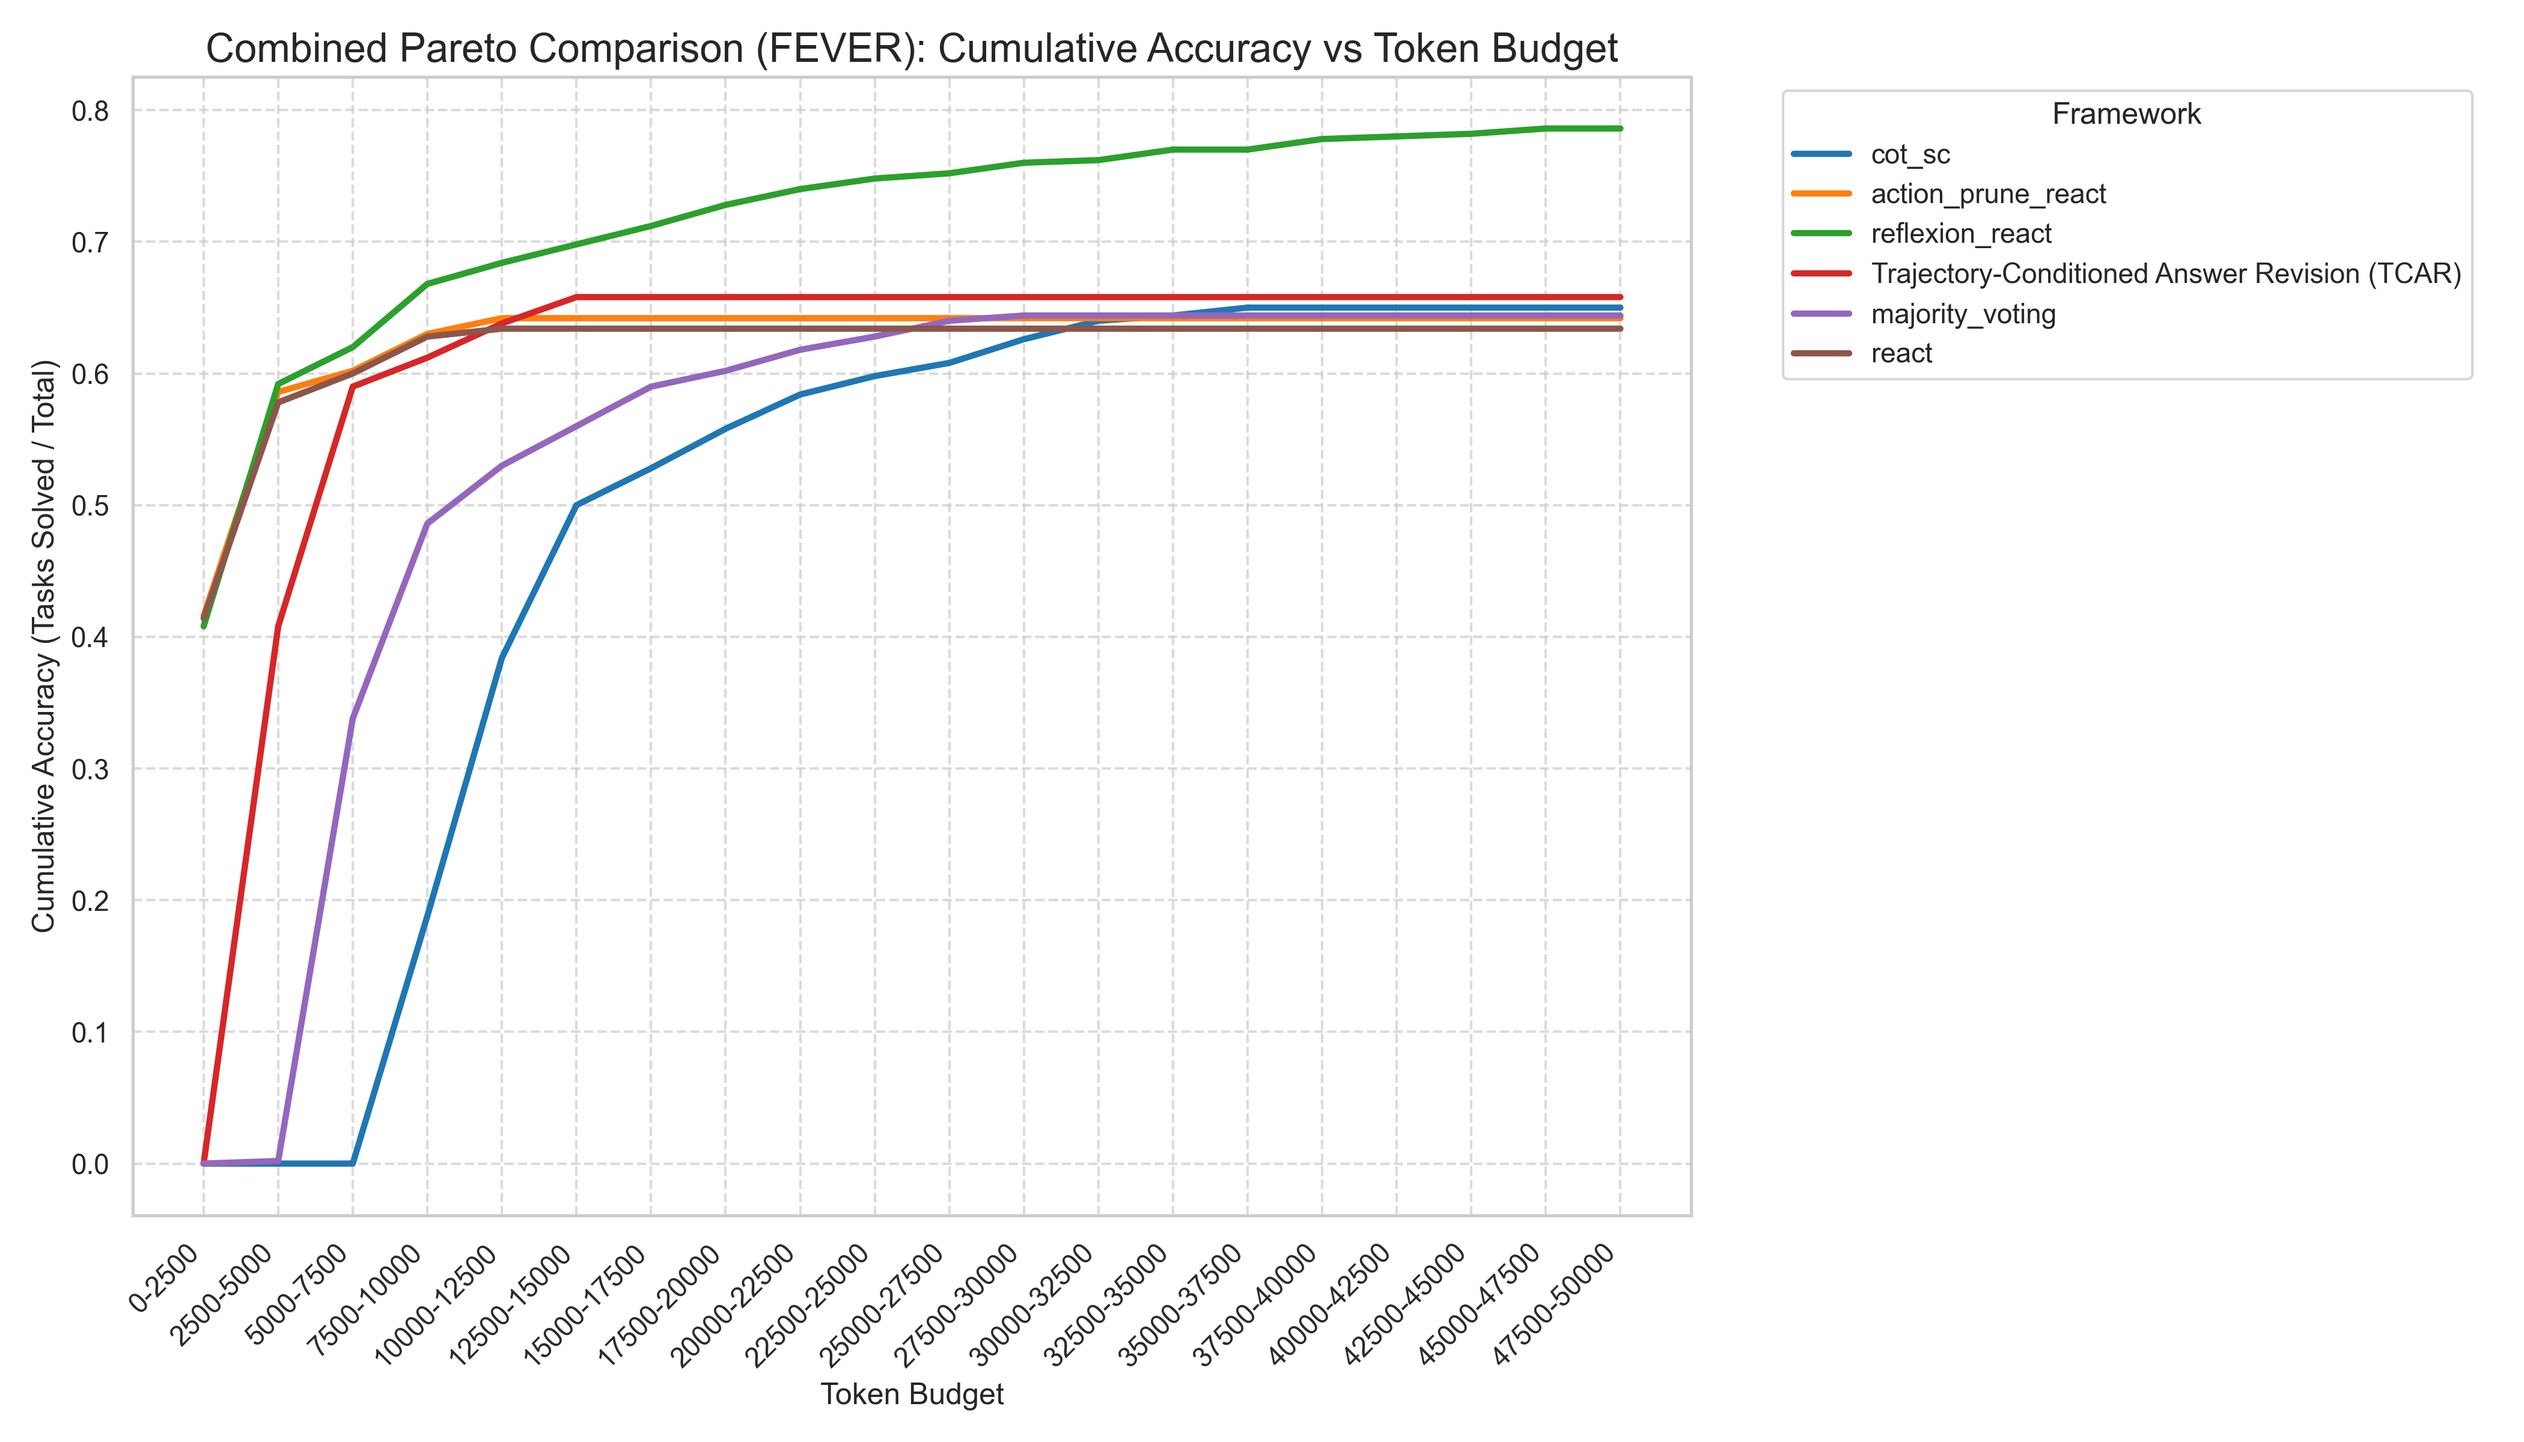
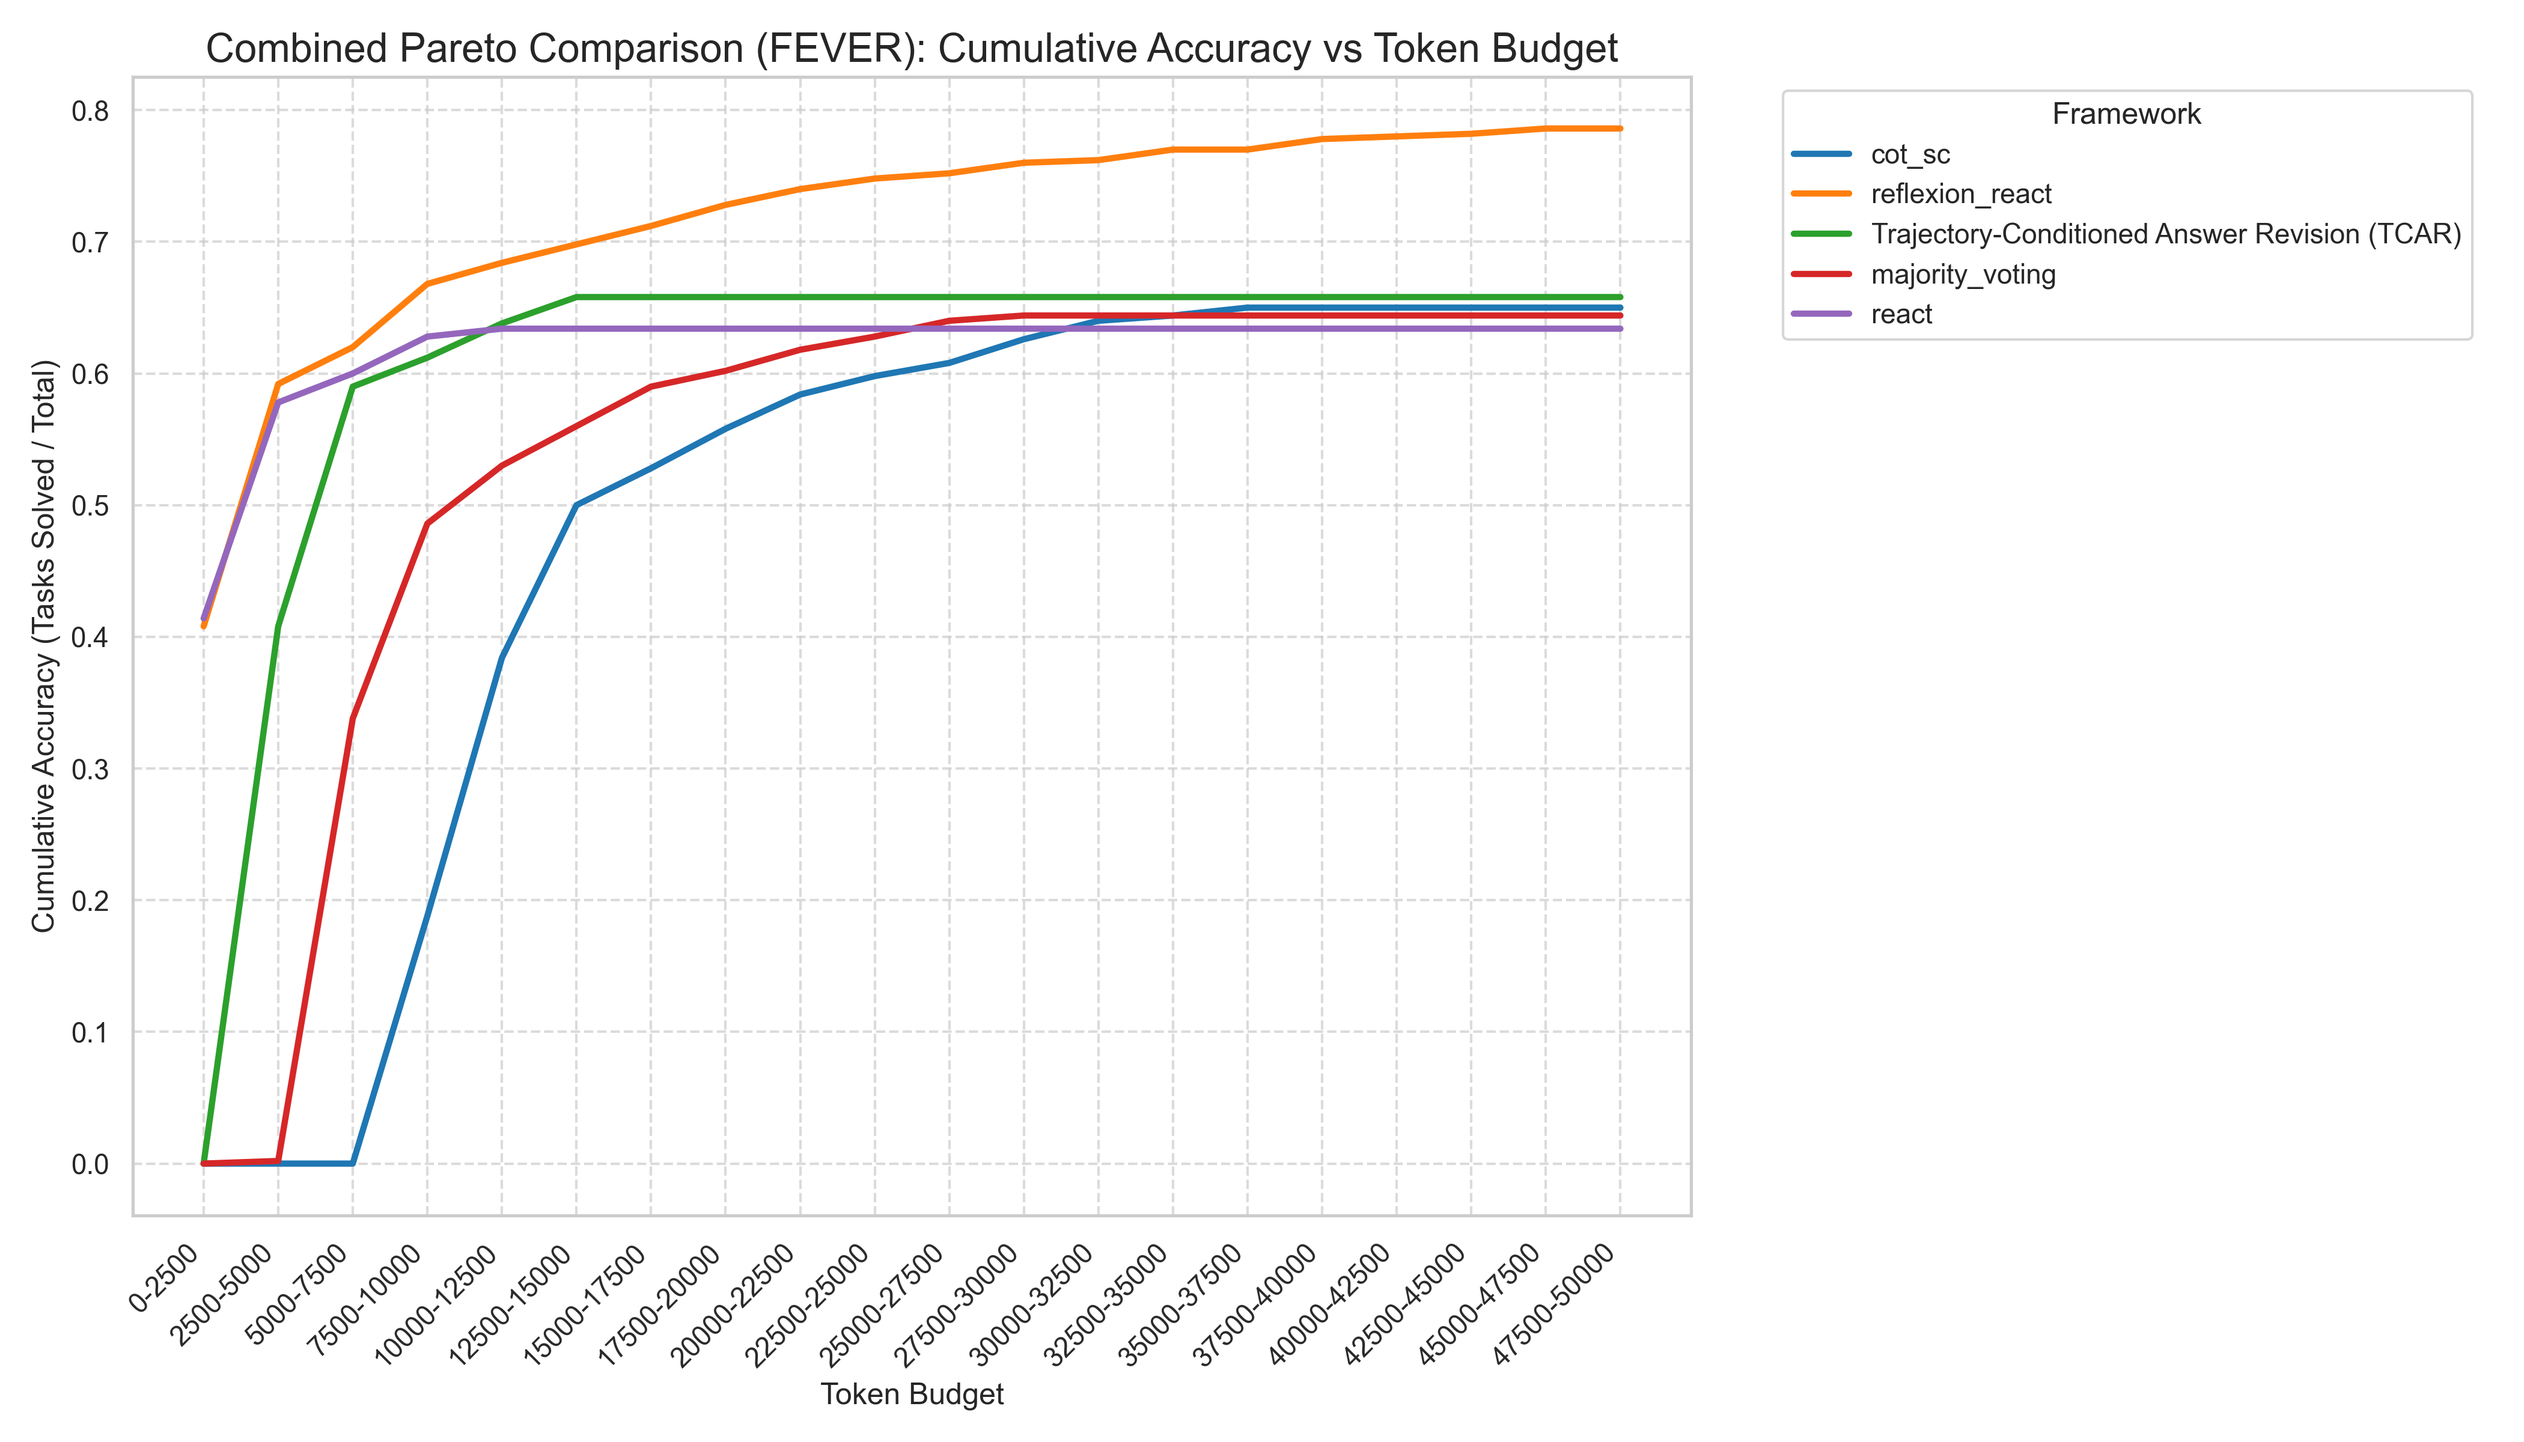
chore: Exclude additional frameworks from combined Pareto accuracy chart generation for Fever and HotpotQA.

diff --git a/results/fever/pareto_aggregation/generate_pareto_charts.py b/results/fever/pareto_aggregation/generate_pareto_charts.py
@@ -163,7 +163,7 @@ def main():
         bin_stats, cumul_acc = calculate_metrics(df_fw, bins, labels)
         
         # Save for combined plotting
-        if fw != 'react_sample_10_tuned_v6_run2' and fw != 'prog_CA_pruning':
+        if fw != 'react_sample_10_tuned_v6_run2' and fw != 'prog_CA_pruning' and fw != 'action_prune_react':
              combined_data[fw] = {'cumulative': cumul_acc}
         
         # Plot Individual

diff --git a/results/hotpotqa/pareto_aggregation/generate_pareto_charts.py b/results/hotpotqa/pareto_aggregation/generate_pareto_charts.py
@@ -143,7 +143,7 @@ def main():
         bin_stats, cumul_acc = calculate_metrics(df_fw, bins, labels)
         
         # Save for combined plotting
-        if fw != 'prog_ca_pruning':
+        if fw != 'prog_ca_pruning' and fw != 'action_prune_react' and fw != 'action_prune':
             combined_data[fw] = {'cumulative': cumul_acc}
         
         # Plot Individual
